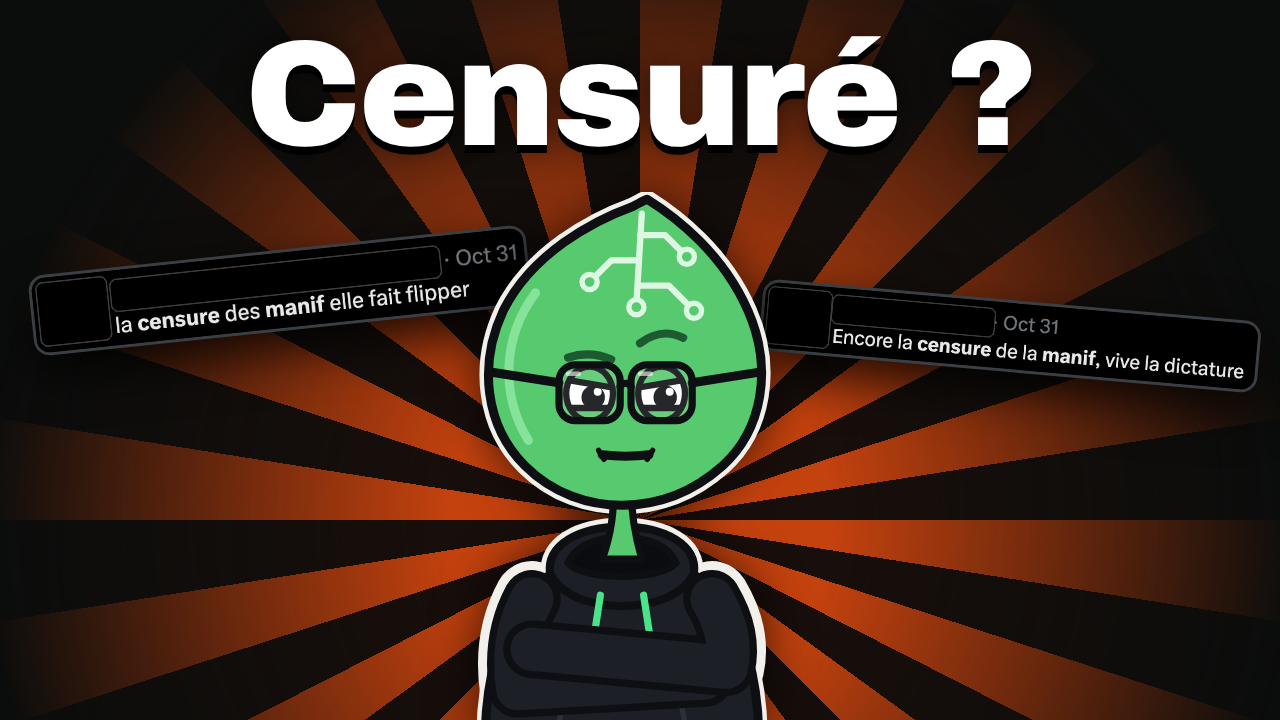
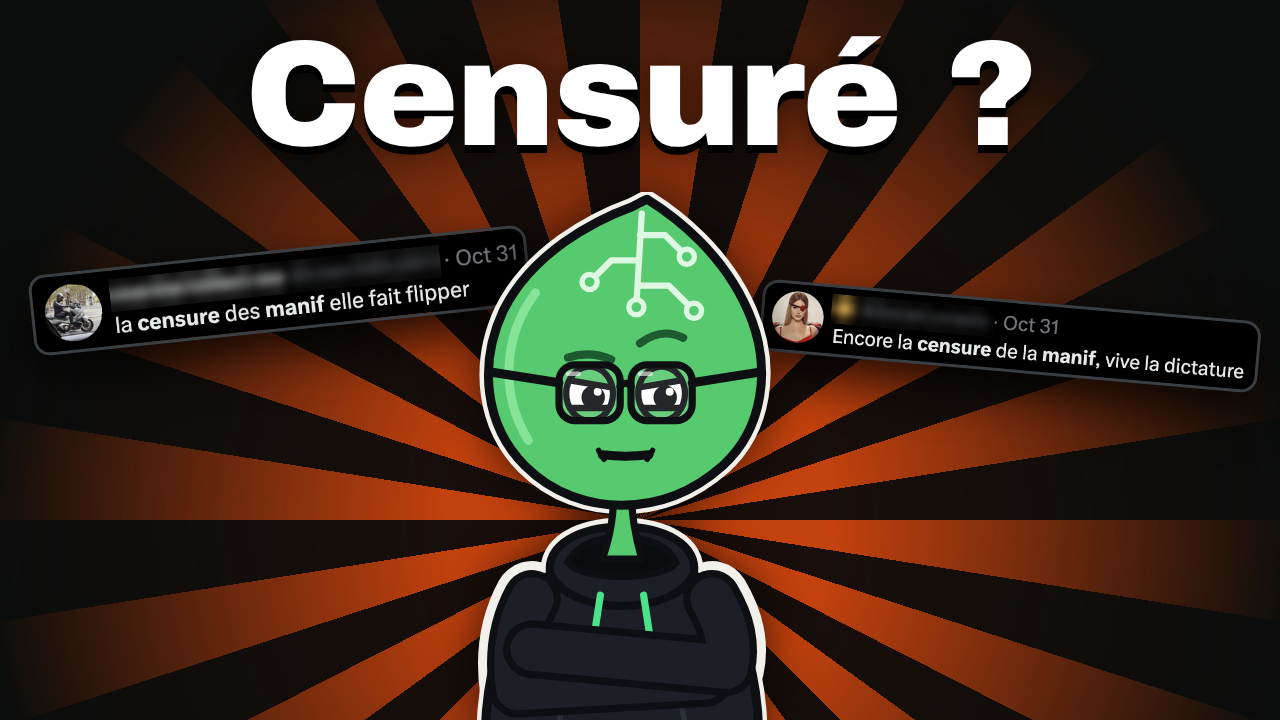
Miniatures : pseudos floutés et photos de profil visibles ; version E1 avec photo de Macron (CC0)
Claude-Session: https://claude.ai/code/session_01UL65wsaHwCpXeakEcEBXrf

Changed region(s): [[0.0312, 0.3361, 0.3438, 0.4889], [0.5938, 0.3972, 0.7812, 0.4889]]

diff --git a/video/tweets/recadrer_posts.py b/video/tweets/recadrer_posts.py
@@ -1,0 +1,33 @@
+from PIL import Image, ImageDraw, ImageFilter
+I="/tmp/claude-0/-home-user-censure-rs-fr/bf21838b-4836-500a-b391-76ed6abad234/images/"
+O="/home/user/censure-rs-fr/video/tweets/"
+# (fichier, nom, boîte de découpe, zones à masquer en coordonnées de l'image source)
+T=[("17.png","T_dictature",(48,1300,1244,1500),[(70,1318,170,1408),(170,1322,425,1368)]),
+   ("17.png","T_zero_tweets",(48,1082,1244,1298),[(70,1086,170,1176),(170,1088,600,1132)]),
+   ("16.png","T_fait_flipper",(24,560,1220,745),[(45,566,145,656),(148,572,612,618)]),
+   ("16.png","T_magace",(24,1240,1220,1418),[(45,1242,145,1332),(148,1246,470,1292)]),
+   ("15.png","T_date_censure",(36,40,1232,262),[(62,40,160,135),(160,44,520,90)]),
+   ("18.webp","T_radiolondres",(18,30,1212,250),[(40,38,140,130),(140,40,440,88)]),
+   ("14.png","T_tiktok_avertissement",(36,30,1232,1380),[(56,36,160,130),(160,40,560,90)])]
+for f,n,box,masques in T:
+    im=Image.open(I+f).convert("RGB"); d=ImageDraw.Draw(im)
+    for (x0,y0,x1,y1) in masques[1:]:   # le premier masque est l'avatar : on le garde visible
+        zone=im.crop((x0,y0,x1,y1))
+        petit=zone.resize((max(1,(x1-x0)//12),max(1,(y1-y0)//12)))
+        zone=petit.resize(zone.size, Image.NEAREST).filter(ImageFilter.GaussianBlur(6))
+        im.paste(zone,(x0,y0))
+    im.crop(box).save(O+n+".png")
+    print(n, im.crop(box).size)
+# découpes serrées pour la miniature (sans la barre d'actions)
+SERRES=[("16.png","M_fait_flipper",(40,560,730,665),[(45,566,145,656),(148,572,612,618)]),
+        ("17.png","M_dictature",(66,1312,835,1415),[(70,1318,170,1408),(170,1322,425,1368)]),
+        ("17.png","M_zero_tweets",(66,1080,1185,1215),[(70,1086,170,1176),(170,1088,600,1132)]),
+        ("16.png","M_magace",(40,1236,1125,1338),[(45,1242,145,1332),(148,1246,470,1292)])]
+for f,n,box,masques in SERRES:
+    im=Image.open(I+f).convert("RGB"); d=ImageDraw.Draw(im)
+    for (x0,y0,x1,y1) in masques[1:]:   # le premier masque est l'avatar : on le garde visible
+        zone=im.crop((x0,y0,x1,y1))
+        petit=zone.resize((max(1,(x1-x0)//12),max(1,(y1-y0)//12)))
+        zone=petit.resize(zone.size, Image.NEAREST).filter(ImageFilter.GaussianBlur(6))
+        im.paste(zone,(x0,y0))
+    im.crop(box).save(O+n+".png")

diff --git a/video/miniatures/fabriquer_miniatures_photo.py b/video/miniatures/fabriquer_miniatures_photo.py
@@ -1,0 +1,19 @@
+import sys
+D="/home/user/censure-rs-fr/video/miniatures"; A="/home/user/censure-rs-fr/video/mascotte/apercus"; T="/home/user/censure-rs-fr/video/tweets"; P=D+"/polices"; PH=D+"/photos"
+css=f"""@font-face{{font-family:Anton;src:url('file://{P}/anton.woff2')}}
+*{{box-sizing:border-box}} html,body{{margin:0;width:1280px;height:720px;overflow:hidden;background:#0b0d0c;color:#fff;font-family:Inter,sans-serif}}
+.tw{{position:absolute;border-radius:16px;border:3px solid #3a3f44;box-shadow:0 18px 50px rgba(0,0,0,.85);background:#000}}
+.photo{{position:absolute;right:0;top:0;width:760px;height:720px;object-fit:cover;object-position:50% 10%;-webkit-mask:linear-gradient(to right,transparent 0%,#000 38%);filter:saturate(.85) contrast(1.05) brightness(.9)}}
+.titre{{position:absolute;font-family:Anton;line-height:1;color:#FFD60A;-webkit-text-stroke:10px #000;paint-order:stroke fill;text-shadow:0 0 40px rgba(255,214,10,.5),0 10px 0 #000}}"""
+def page(c): return f"<!doctype html><html><head><meta charset='utf-8'><style>{css}</style></head><body>{c}</body></html>"
+def compo(photo, pose="apercu-lunettes-relevees"):
+    return f"""<img class='photo' src='file://{PH}/{photo}'>
+ <div style='position:absolute;inset:0;background:linear-gradient(to top,rgba(11,13,12,.85) 0%,transparent 35%)'></div>
+ <div class='titre' style='left:40px;top:14px;font-size:200px'>CENSURÉ ?</div>
+ <img class='tw' src='file://{T}/M_fait_flipper.png' style='left:560px;top:440px;width:600px;transform:rotate(-3deg)'>
+ <img class='tw' src='file://{T}/M_dictature.png' style='left:600px;top:575px;width:640px;transform:rotate(2deg)'>
+ <img src='file://{A}/{pose}.svg' style='position:absolute;left:-10px;bottom:-10px;height:520px;filter:drop-shadow(0 0 26px rgba(0,0,0,.85))'>"""
+V={"E1_macron": compo("macron_2024.jpg")}
+if len(sys.argv)>1 and sys.argv[1]=="lecornu": V["E2_lecornu"]=compo("lecornu_2025.jpg")
+for n,c in V.items(): open(f"{D}/{n}.html","w",encoding="utf-8").write(page(c))
+print(list(V))
